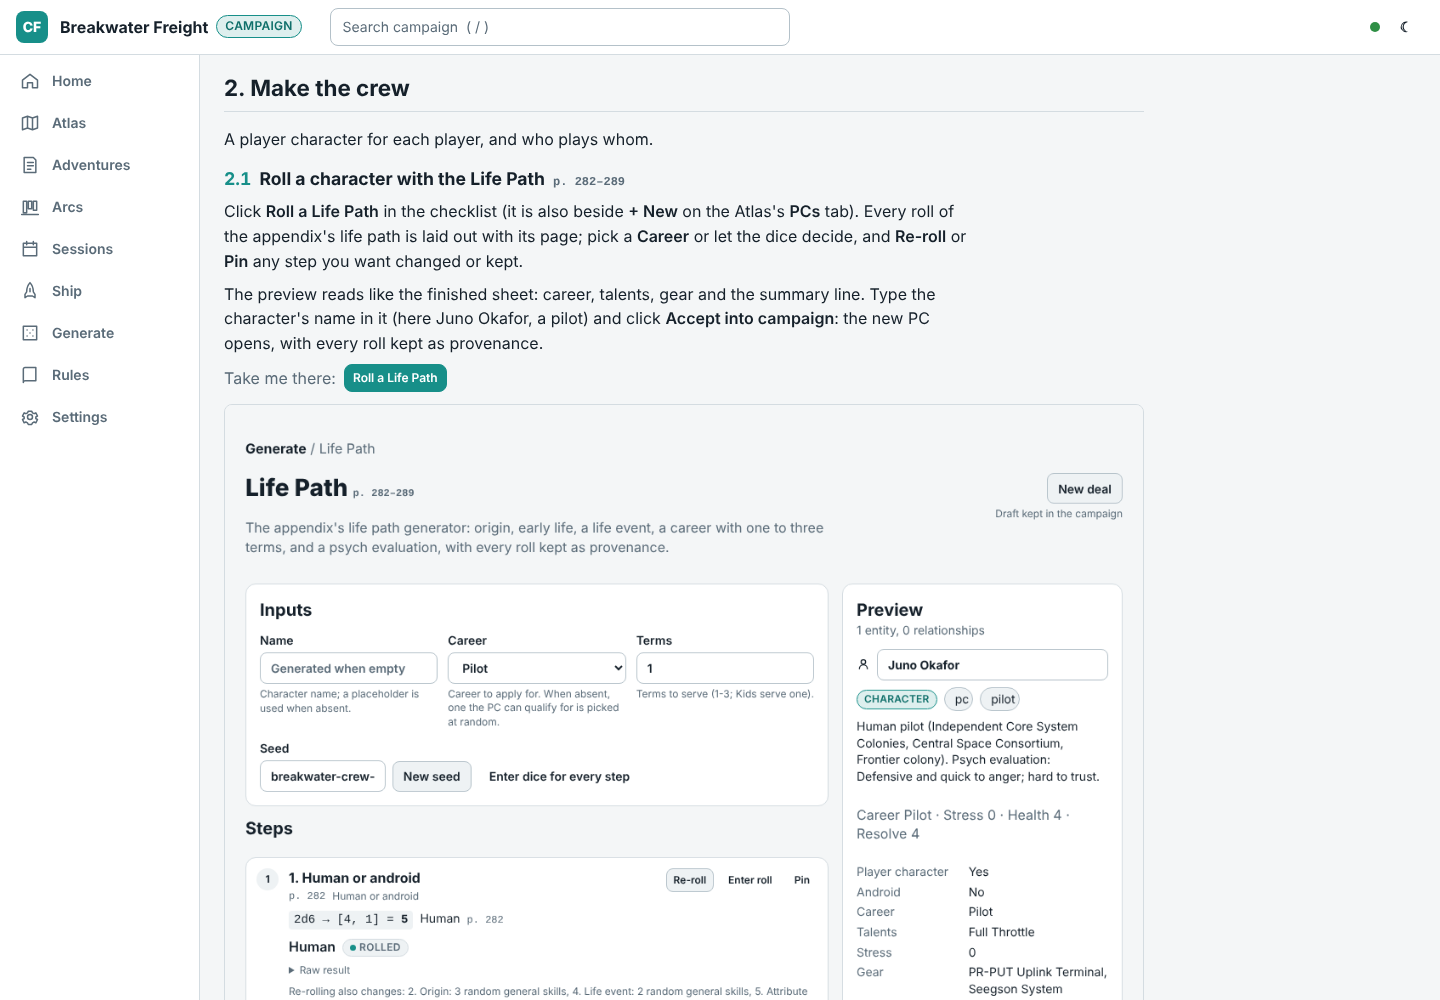
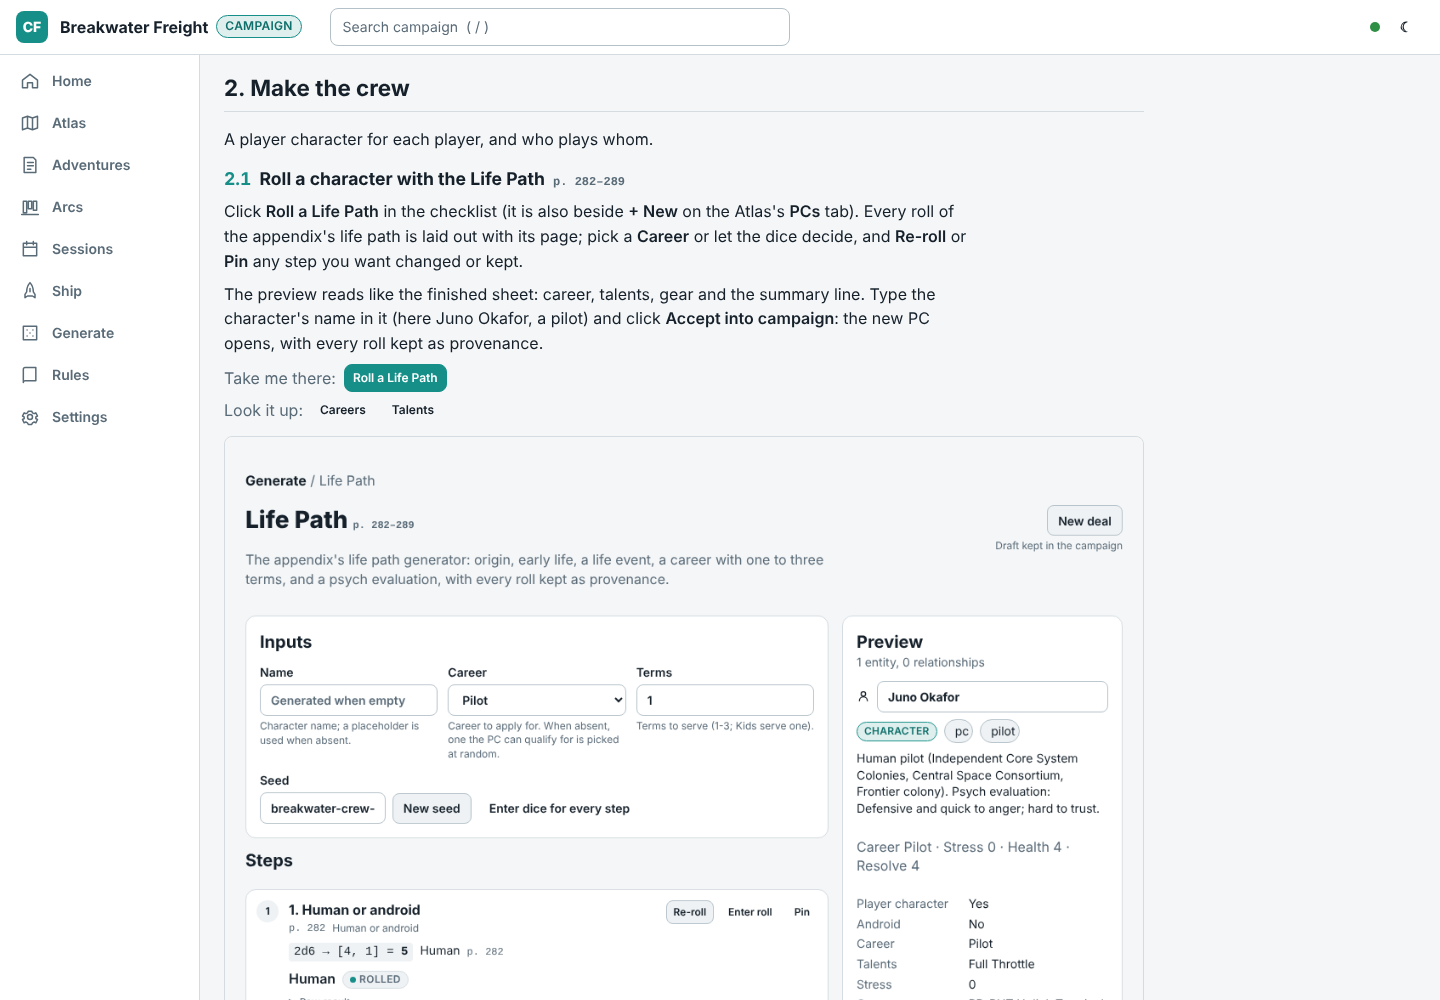
Guide: Look it up links to the Reference page
- Contract: a setup or guide link may target a Reference page entry
  (reference: a list with an optional item, a table, or a preset);
  conformance checks the list, item, table or preset exists, and the pack
  JSON Schemas are regenerated.
- Web: such a link opens the Reference page's own address for the entry;
  the Guide shows them apart, under Look it up, never as the main button.
- Alien guide: Look it up links to the campaign frames, careers, talents,
  skills and ship classes lists, the Bison and Ship's engineer presets, and
  the stress response and panic roll tables.
- Docs: setup.md and guides.md describe the target; feature lines updated;
  in-app-guide re-shot.

Claude-Session: https://claude.ai/code/session_01PjoAoT19ZxbEizz2Vq94tE

diff --git a/packages/module-alien/src/firstCampaign.ts b/packages/module-alien/src/firstCampaign.ts
@@ -56,6 +56,7 @@ export const firstCampaignGuide: GuideDef = {
           ],
           image: { key: "new-campaign", alt: "The New campaign dialog with the Alien module, campaign play and the Space Truckers frame chosen" },
           page: [234, 235],
+          links: [{ label: "Campaign frames", reference: { list: "alien.frames" } }],
         }),
         step({
           id: "home-checklist",
@@ -82,7 +83,11 @@ export const firstCampaignGuide: GuideDef = {
             "The preview reads like the finished sheet: career, talents, gear and the summary line. Type the character's name in it (here Juno Okafor, a pilot) and click *Accept into campaign*: the new PC opens, with every roll kept as provenance.",
           ],
           image: { key: "life-path", alt: "The Life Path generator with a pilot rolled and named Juno Okafor in the preview" },
-          links: [{ label: "Roll a Life Path", procedure: LIFEPATH }],
+          links: [
+            { label: "Roll a Life Path", procedure: LIFEPATH },
+            { label: "Careers", reference: { list: "alien.careers" } },
+            { label: "Talents", reference: { list: "alien.talents" } },
+          ],
           page: [282, 289],
         }),
         step({
@@ -93,7 +98,10 @@ export const firstCampaignGuide: GuideDef = {
             "Fill in the rest on the sheet: attributes, skills, talents, gear. Health and Resolve work themselves out from the attributes.",
           ],
           image: { key: "pc-by-hand", alt: "The New character page with a blank player character named Tobias Reyne" },
-          links: [{ label: "New player character", newEntity: { type: CHARACTER, pc: true } }],
+          links: [
+            { label: "New player character", newEntity: { type: CHARACTER, pc: true } },
+            { label: "Skills", reference: { list: "alien.skills" } },
+          ],
         }),
         step({
           id: "players",
@@ -130,7 +138,11 @@ export const firstCampaignGuide: GuideDef = {
             "The page then shows the ship's hull, parts and provisions, the ledger of crew funds and each PC's cash, the travel planner and *Run between jobs*. Table mode shows the ship too.",
           ],
           image: { key: "ship", alt: "The Ship page with the Marigold Dawn chosen as the crew's ship" },
-          links: [{ label: "Open the Ship page", page: "ship" }],
+          links: [
+            { label: "Open the Ship page", page: "ship" },
+            { label: "Model CM-88G Bison", reference: { preset: "alien.spaceship.bison-m-class-hauler" } },
+            { label: "Ship classes", reference: { list: "alien.ship-classes" } },
+          ],
           page: 158,
         }),
       ],
@@ -185,7 +197,10 @@ export const firstCampaignGuide: GuideDef = {
             "On Home, click *+ NPC from preset*. *Search presets* for the kind of person you need, pick one of the book's 25 typical NPCs (here *Ship’s engineer*), give them a name (Oskar Brandt) and click *Create character*. The stat line, skills and weapons come with the preset.",
           ],
           image: { key: "npc-preset", alt: "The New character page with the Ship's engineer preset chosen and named Oskar Brandt" },
-          links: [{ label: "New NPC", newEntity: { type: CHARACTER } }],
+          links: [
+            { label: "New NPC", newEntity: { type: CHARACTER } },
+            { label: "Ship’s engineer preset", reference: { preset: "alien.npc.ships-engineer" } },
+          ],
           page: [258, 259],
         }),
         step({
@@ -361,7 +376,11 @@ export const firstCampaignGuide: GuideDef = {
             "*Player screen* opens a second window for the players to look at.",
           ],
           image: { key: "table", alt: "Table mode on the briefing scene, with the clock and the crew's stress trackers" },
-          links: [{ label: "Open Sessions", page: "sessions" }],
+          links: [
+            { label: "Open Sessions", page: "sessions" },
+            { label: "Stress response", reference: { table: "alien.character.stress-response" } },
+            { label: "Panic roll", reference: { table: "alien.character.panic" } },
+          ],
         }),
         step({
           id: "reveal",

diff --git a/packages/module-sdk/src/setup.ts b/packages/module-sdk/src/setup.ts
@@ -23,6 +23,7 @@ import {
   type PlayModeId,
   type SetupLayout,
   type SetupLink,
+  type SetupReferenceTarget,
   type SetupSnapshot,
   type SetupSnapshotEntity,
   type SetupStepDef,
@@ -177,13 +178,14 @@ export function initialCampaignSettings(module: Pick<GameModule, "campaignSettin
 // conformance
 // ---------------------------------------------------------------------------
 
-type CheckedModule = Pick<GameModule, "manifest" | "setup" | "campaignSettings" | "entityTypes" | "procedures" | "referenceLists" | "presets">;
+type CheckedModule = Pick<GameModule, "manifest" | "setup" | "campaignSettings" | "entityTypes" | "procedures" | "referenceLists" | "presets"> & Partial<Pick<GameModule, "tables">>;
 
 /** A setup (or guide) link: a label, exactly one target, and targets the module knows. */
-export function checkSetupLink(l: SetupLink, where: string, module: Pick<GameModule, "entityTypes" | "procedures" | "presets">, err: (where: string, message: string) => void): void {
-  const targets = [l.page !== undefined, l.procedure !== undefined, l.newEntity !== undefined, l.entity !== undefined].filter(Boolean).length;
+export function checkSetupLink(l: SetupLink, where: string, module: Pick<GameModule, "entityTypes" | "procedures" | "presets"> & Partial<Pick<GameModule, "referenceLists" | "tables">>, err: (where: string, message: string) => void): void {
+  const targets = [l.page !== undefined, l.procedure !== undefined, l.newEntity !== undefined, l.entity !== undefined, l.reference !== undefined].filter(Boolean).length;
   if (!l || typeof l.label !== "string" || !l.label.trim()) err(where, "a link needs a label");
-  if (targets !== 1) err(where, `link "${l?.label}" needs exactly one of page, procedure, newEntity or entity`);
+  if (targets !== 1) err(where, `link "${l?.label}" needs exactly one of page, procedure, newEntity, entity or reference`);
+  if (l.reference !== undefined) checkReferenceTarget(l.reference, `link "${l.label}"`, where, module, err);
   if (l.page !== undefined && !SETUP_PAGES.includes(l.page)) err(where, `link "${l.label}": unknown page "${l.page}" (one of ${SETUP_PAGES.join(", ")})`);
   if (l.params !== undefined && l.page === undefined) err(where, `link "${l.label}": params only go with a page`);
   if (l.procedure !== undefined && !module.procedures.some((p) => p.id === l.procedure)) err(where, `link "${l.label}": unknown procedure "${l.procedure}"`);
@@ -192,6 +194,23 @@ export function checkSetupLink(l: SetupLink, where: string, module: Pick<GameMod
     if (l.newEntity.preset !== undefined && !module.presets.some((p) => p.id === l.newEntity!.preset)) err(where, `link "${l.label}": unknown preset "${l.newEntity.preset}"`);
   }
   if (l.entity !== undefined) for (const m of logicIssues(l.entity)) err(where, `link "${l.label}": ${m}`);
+}
+
+/** A Reference page target names exactly one list (with an item of it, if any), table or preset the module has. */
+function checkReferenceTarget(r: SetupReferenceTarget, what: string, where: string, module: Partial<Pick<GameModule, "referenceLists" | "tables" | "presets">>, err: (where: string, message: string) => void): void {
+  const kinds = [r?.list !== undefined, r?.table !== undefined, r?.preset !== undefined].filter(Boolean).length;
+  if (!r || typeof r !== "object" || kinds !== 1) {
+    err(where, `${what}: reference needs exactly one of list, table or preset`);
+    return;
+  }
+  if (r.item !== undefined && r.list === undefined) err(where, `${what}: reference item "${r.item}" needs its list`);
+  if (r.list !== undefined) {
+    const list = (module.referenceLists ?? []).find((x) => x.id === r.list);
+    if (!list) err(where, `${what}: unknown reference list "${r.list}"`);
+    else if (r.item !== undefined && !list.items.some((i) => i.id === r.item)) err(where, `${what}: list "${r.list}" has no item "${r.item}"`);
+  }
+  if (r.table !== undefined && !(module.tables ?? []).some((t) => t.id === r.table)) err(where, `${what}: unknown table "${r.table}"`);
+  if (r.preset !== undefined && !(module.presets ?? []).some((p) => p.id === r.preset)) err(where, `${what}: unknown preset "${r.preset}"`);
 }
 
 /**

diff --git a/packages/module-sdk/test/guide.test.ts b/packages/module-sdk/test/guide.test.ts
@@ -134,12 +134,44 @@ describe("guide conformance", () => {
       'warning guide:c/s: an unpaired "*" in "One *mark.…" (mark labels as *Label*)',
       'error guide:c/t: image "img" is used by another step',
       'error guide:c/t: link "Go": unknown procedure "gd.nope"',
-      'error guide:c/t: link "Both" needs exactly one of page, procedure, newEntity or entity',
+      'error guide:c/t: link "Both" needs exactly one of page, procedure, newEntity, entity or reference',
       'error guide:c/t: link "Both": unknown procedure "gd.nope"',
       'error guide:c/t: link "Cart": unknown entity type "gd.boat"',
     ];
     for (const e of expected) expect(found, e).toContain(e);
     expect(found).toHaveLength(expected.length);
+  });
+
+  it("checks Reference page links: one list (with an item of it), table or preset the module has", () => {
+    const mod = (links: NonNullable<GuideDef["chapters"][number]["steps"][number]["links"]>) =>
+      moduleWith({
+        referenceLists: [{ id: "gd.talents", name: "Talents", items: [{ id: "quick", name: "Quick" }] }],
+        tables: [{ id: "gd.mishap", name: "Mishap", dice: "d6", rows: [] }],
+        presets: [{ id: "gd.mule", entityType: "gd.cart", name: "Mule", fields: {} }],
+        guide: { ...GUIDE, chapters: [{ id: "c", title: "C", steps: [{ id: "s", title: "S", body: ["x"], links }] }] },
+      } as Partial<GameModule>);
+    expect(issues(mod([{ label: "Talents", reference: { list: "gd.talents" } }, { label: "Quick", reference: { list: "gd.talents", item: "quick" } }, { label: "Mishap", reference: { table: "gd.mishap" } }, { label: "Mule", reference: { preset: "gd.mule" } }]))).toEqual([]);
+    expect(
+      issues(
+        mod([
+          { label: "No list", reference: { list: "gd.nope" } },
+          { label: "No item", reference: { list: "gd.talents", item: "slow" } },
+          { label: "Lone item", reference: { item: "quick" } },
+          { label: "Two", reference: { table: "gd.mishap", preset: "gd.mule" } },
+          { label: "No table", reference: { table: "gd.nope" } },
+          { label: "No preset", reference: { preset: "gd.nope" } },
+          { label: "And a page", page: "home", reference: { table: "gd.mishap" } },
+        ]),
+      ),
+    ).toEqual([
+      'error guide:c/s: link "No list": unknown reference list "gd.nope"',
+      'error guide:c/s: link "No item": list "gd.talents" has no item "slow"',
+      'error guide:c/s: link "Lone item": reference needs exactly one of list, table or preset',
+      'error guide:c/s: link "Two": reference needs exactly one of list, table or preset',
+      'error guide:c/s: link "No table": unknown table "gd.nope"',
+      'error guide:c/s: link "No preset": unknown preset "gd.nope"',
+      'error guide:c/s: link "And a page" needs exactly one of page, procedure, newEntity, entity or reference',
+    ]);
   });
 
   it("rejects a guide with no chapters", () => {

diff --git a/apps/web/src/features/guide/guide.test.tsx b/apps/web/src/features/guide/guide.test.tsx
@@ -5,6 +5,7 @@ import { guideSteps } from "@campaign-forge/module-sdk";
 import type { ReactNode } from "react";
 import { afterEach, describe, expect, it, vi } from "vitest";
 import { createCampaign, createEntity } from "../../state/actions";
+import { setupLinkTarget } from "../../state/setupActions";
 import { CampaignContext, openCampaign, type CampaignContextValue } from "../../state/CampaignProvider";
 import { guideImageUrl } from "./guideImages";
 import { GuidePage } from "./GuidePage";
@@ -74,6 +75,31 @@ describe("GuideView", () => {
     const links = within(screen.getByRole("group", { name: "Take me there: Step A" })).getAllByRole("link");
     expect(links.map((l) => [l.textContent, l.getAttribute("data-to")])).toEqual([["Home", "/c/$campaignId/home"]]);
     expect(links[0]!.className).toContain("cf-btn--primary");
+  });
+
+  it("puts Reference page links in their own Look it up row, never as the main button", () => {
+    const guide: GuideDef = {
+      ...FIXTURE,
+      chapters: [{ id: "one", title: "First", steps: [{ id: "a", title: "Step A", body: ["x"], links: [{ label: "Talents", reference: { list: "fx.talents" } }, { label: "Home", page: "home" }, { label: "Mishap", reference: { table: "fx.mishap" } }] }] }],
+    };
+    render(<GuideView guide={guide} moduleId="fx" imageUrl={() => undefined} linkTarget={(l) => setupLinkTarget(l, "c1")} />);
+    const go = within(screen.getByRole("group", { name: "Take me there: Step A" })).getAllByRole("link");
+    expect(go.map((l) => l.textContent)).toEqual(["Home"]);
+    expect(go[0]!.className).toContain("cf-btn--primary");
+    const look = within(screen.getByRole("group", { name: "Look it up: Step A" })).getAllByRole("link");
+    expect(look.map((l) => [l.textContent, l.getAttribute("data-to"), l.getAttribute("data-search")])).toEqual([
+      ["Talents", "/c/$campaignId/reference", JSON.stringify({ tab: "lists", list: "fx.talents" })],
+      ["Mishap", "/c/$campaignId/reference", JSON.stringify({ tab: "tables", table: "fx.mishap" })],
+    ]);
+    expect(look.every((l) => !l.className.includes("cf-btn--primary"))).toBe(true);
+  });
+});
+
+describe("setupLinkTarget for the Reference page", () => {
+  it("opens an item in its list, a table, or a preset", () => {
+    expect(setupLinkTarget({ label: "x", reference: { list: "l", item: "i" } }, "c1")).toEqual({ to: "/c/$campaignId/reference", params: { campaignId: "c1" }, search: { tab: "lists", list: "l", item: "i" } });
+    expect(setupLinkTarget({ label: "x", reference: { table: "t" } }, "c1")?.search).toEqual({ tab: "tables", table: "t" });
+    expect(setupLinkTarget({ label: "x", reference: { preset: "p" } }, "c1")?.search).toEqual({ tab: "presets", preset: "p" });
   });
 });
 

diff --git a/apps/web/src/features/guide/GuideView.tsx b/apps/web/src/features/guide/GuideView.tsx
@@ -68,7 +68,10 @@ export function GuideView({ guide, moduleId, linkTarget, notice, imageUrl = guid
             .filter((n) => n.chapter === ch)
             .map(({ step, number, anchor }) => {
               const src = step.image ? imageUrl(moduleId, step.image.key) : undefined;
-              const links = linkTarget ? (step.links ?? []).map((l) => ({ link: l, target: linkTarget(l) })).filter((x): x is { link: GuideLink; target: SetupLinkTarget } => !!x.target) : [];
+              const resolved = linkTarget ? (step.links ?? []).map((l) => ({ link: l, target: linkTarget(l) })).filter((x): x is { link: GuideLink; target: SetupLinkTarget } => !!x.target) : [];
+              // where the step is done, and (apart) where its rules and options are looked up on the Reference page
+              const links = resolved.filter((x) => !x.link.reference);
+              const lookups = resolved.filter((x) => !!x.link.reference);
               return (
                 <article key={step.id} id={anchor} className="guide-step" data-step={step.id} aria-labelledby={`guide-step-${anchor}`}>
                   <h3 id={`guide-step-${anchor}`} className="guide-step__title">
@@ -83,6 +86,16 @@ export function GuideView({ guide, moduleId, linkTarget, notice, imageUrl = guid
                         <span className="cf-muted">Take me there:</span>
                         {links.map(({ link, target }, i) => (
                           <Link key={link.label} to={target.to} params={target.params as never} search={target.search as never} className={`cf-btn cf-btn--sm${i === 0 ? " cf-btn--primary" : ""}`} data-testid="guide-link">
+                            {link.label}
+                          </Link>
+                        ))}
+                      </div>
+                    )}
+                    {lookups.length > 0 && (
+                      <div className="guide-step__links guide-step__links--lookup" role="group" aria-label={`Look it up: ${step.title}`}>
+                        <span className="cf-muted">Look it up:</span>
+                        {lookups.map(({ link, target }) => (
+                          <Link key={link.label} to={target.to} params={target.params as never} search={target.search as never} className="cf-btn cf-btn--sm cf-btn--ghost" data-testid="guide-lookup">
                             {link.label}
                           </Link>
                         ))}

diff --git a/apps/web/e2e/guide.spec.ts b/apps/web/e2e/guide.spec.ts
@@ -47,6 +47,18 @@ test("guide: from a new campaign's checklist and Home, its links lead into the c
   await expect(page).toHaveURL(/\/guide#session$/);
   await expect(page.locator("#session")).toBeInViewport();
 
+  // Look it up: the talents list, then the panic roll table, on the Reference page
+  const lookUp = (title: string) => page.getByRole("group", { name: `Look it up: ${title}` });
+  await lookUp("Roll a character with the Life Path").getByRole("link", { name: "Talents" }).click();
+  await expect(page).toHaveURL(/\/reference\?.*list=alien\.talents/);
+  await expect(page.getByRole("combobox", { name: "Reference list" })).toHaveValue("alien.talents");
+  await page.goBack();
+  await lookUp("Start it: table mode").getByRole("link", { name: "Panic roll" }).click();
+  await expect(page).toHaveURL(/\/reference\?.*table=alien\.character\.panic/);
+  await expect(page.getByRole("dialog", { name: /Panic roll/ })).toBeVisible();
+  await page.goBack();
+  await expect(page.getByRole("dialog")).toHaveCount(0);
+
   // Take me there: the Life Path
   await takeMeThere(page, "Roll a character with the Life Path").getByRole("link", { name: "Roll a Life Path" }).click();
   await expect(page).toHaveURL(/\/generate\/alien\.lifepath$/);

diff --git a/packages/module-sdk/src/pack/schema.ts b/packages/module-sdk/src/pack/schema.ts
@@ -95,6 +95,7 @@ import type {
   GuideStepDef,
   SetupLayout,
   SetupLink,
+  SetupReferenceTarget,
   SetupPage,
   SetupStepDef,
   SessionChecklistEvent,
@@ -570,10 +571,11 @@ const definitions: Record<string, JsonSchema> = {
       procedure: ref("id"),
       newEntity: object<NonNullable<SetupLink["newEntity"]>>()({ type: ref("id"), pc: bool, preset: ref("id") }, ["type"]),
       entity: { ...logic, description: "JSONLogic over one snapshot entity: the first match (by name) opens; the link hides while none matches." },
+      reference: object<SetupReferenceTarget>()({ list: ref("id"), item: ref("id"), table: ref("id"), preset: ref("id") }, [], { description: "A Reference page entry: exactly one of list (with an optional item of it), table or preset." }),
       primary: bool,
     },
     ["label"],
-    { description: "Where a setup step is done: exactly one of page, procedure, newEntity or entity." },
+    { description: "Where a setup step is done: exactly one of page, procedure, newEntity, entity or reference." },
   ),
   setupStep: object<SetupStepDef>()(
     {

diff --git a/packages/module-sdk/src/guide.ts b/packages/module-sdk/src/guide.ts
@@ -73,13 +73,14 @@ export function guideText(paragraph: string): GuideTextRun[] {
   return out;
 }
 
-type CheckedModule = Pick<GameModule, "manifest" | "guide" | "entityTypes" | "procedures" | "presets">;
+type CheckedModule = Pick<GameModule, "manifest" | "guide" | "entityTypes" | "procedures" | "presets"> & Partial<Pick<GameModule, "referenceLists" | "tables">>;
 
 /**
  * Conformance of `GameModule.guide`: an id namespaced with the module id, a
  * title and summary, declared modes, at least one chapter with steps;
  * chapter, step and image ids that are unique slugs; a body on every step;
- * image alt text; links with exactly one target the module knows; `*`
+ * image alt text; links with exactly one target the module knows (a page,
+ * procedure, new entity, entity rule, or Reference page entry); `*`
  * marks in pairs.
  */
 export function guideIssues(module: CheckedModule): GuideIssue[] {

diff --git a/packages/module-sdk/test/setup.test.ts b/packages/module-sdk/test/setup.test.ts
@@ -159,7 +159,7 @@ describe("checkModule: setup", () => {
         'error setup:other.step: done: unknown operator "bogus"',
         'error setup:st.dupe: mode "z" is not declared by the module',
         'error setup:st.dupe: duplicate setup step "st.dupe"',
-        'error setup:st.links: link "Two targets" needs exactly one of page, procedure, newEntity or entity',
+        'error setup:st.links: link "Two targets" needs exactly one of page, procedure, newEntity, entity or reference',
         'error setup:st.links: link "Two targets": unknown procedure "st.proc"',
         'error setup:st.links: link "Nowhere": unknown page "attic" (one of home, atlas, settings, ship, arcs, sessions, adventures, generate, primer, rules)',
         'error setup:st.links: link "No such type": unknown entity type "st.boat"',

diff --git a/apps/web/src/state/setupActions.ts b/apps/web/src/state/setupActions.ts
@@ -91,5 +91,11 @@ export function setupLinkTarget(link: SetupLinkState, campaignId: Id): SetupLink
     return { to: "/c/$campaignId/entities/new", params: { campaignId }, search };
   }
   if (link.entityId) return { to: "/c/$campaignId/entities/$entityId", params: { campaignId, entityId: link.entityId }, search: {} };
+  if (link.reference) {
+    // the Reference page's own address for the entry (see ReferenceSearch in the router)
+    const r = link.reference;
+    const search: Record<string, string> = r.table ? { tab: "tables", table: r.table } : r.preset ? { tab: "presets", preset: r.preset } : { tab: "lists", ...(r.list ? { list: r.list } : {}), ...(r.item ? { item: r.item } : {}) };
+    return { to: "/c/$campaignId/reference", params: { campaignId }, search };
+  }
   return undefined;
 }

diff --git a/packages/module-sdk/src/types.ts b/packages/module-sdk/src/types.ts
@@ -3934,8 +3934,22 @@ export interface SetupLink {
    * matches, e.g. "Open the job" before a job is taken.
    */
   entity?: JsonLogicRule;
+  /** An entry of the Reference page: a reference list (or one of its items), a roll table, or a preset. */
+  reference?: SetupReferenceTarget;
   /** The step's main action: shown as the primary button. */
   primary?: boolean;
+}
+
+/**
+ * Where on the Reference page a link goes: exactly one of `list` (with an
+ * optional `item` of that list, opened in its dialog), `table` (opened in the
+ * table dialog) or `preset` (the Presets tab, filtered to it).
+ */
+export interface SetupReferenceTarget {
+  list?: string;
+  item?: string;
+  table?: string;
+  preset?: string;
 }
 
 /**

diff --git a/apps/web/src/features/guide/guide.css b/apps/web/src/features/guide/guide.css
@@ -69,6 +69,10 @@
   gap: var(--cf-space-2);
   margin-block: var(--cf-space-2) var(--cf-space-3);
 }
+/* Look it up sits right under Take me there */
+.guide-step__links + .guide-step__links--lookup {
+  margin-top: calc(-1 * var(--cf-space-2));
+}
 .guide-step__figure {
   margin: 0;
 }
